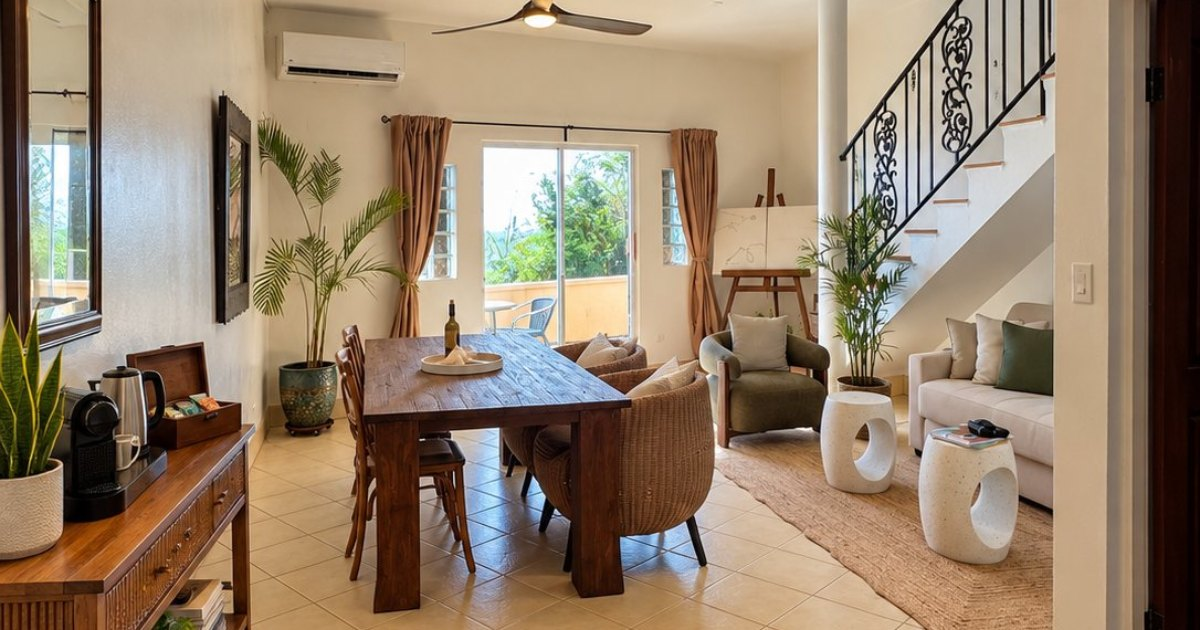
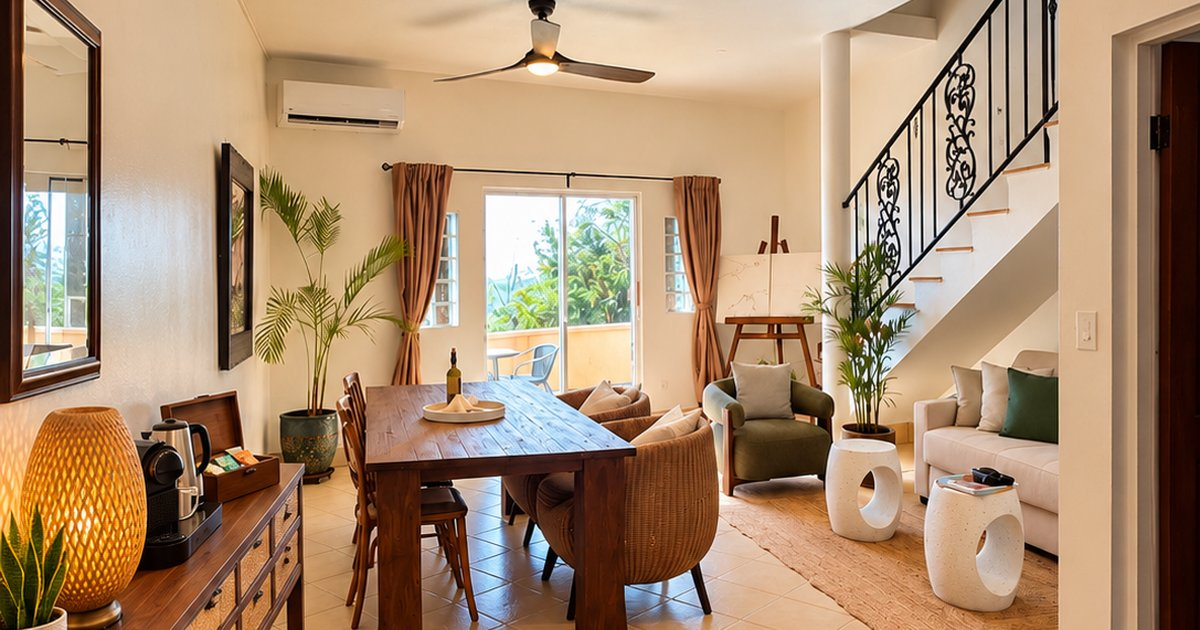
New living and dining room photo
Replace the living/dining photo in the home slideshow and gallery, and
rebuild the link-preview image from it. New filename so browsers load
the new photo instead of a cached copy.

Claude-Session: https://claude.ai/code/session_01EmQXSYo3i8cjTFuW2eu11K

diff --git a/index.html b/index.html
@@ -505,7 +505,7 @@
        </video>
 -->
 <section class="masthead">
-  <img class="mm" src="assets/photos/Living%20Dining%20Room.jpeg" alt="Living and dining room opening to the sea" style="object-position:50% 46%;transform-origin:50% 45%;--i:0" />
+  <img class="mm" src="assets/photos/Living%20and%20Dining%20Room.jpeg" alt="Living and dining room opening to the sea" style="object-position:50% 46%;transform-origin:50% 45%;--i:0" />
   <img class="mm" src="assets/photos/Master%20Bedroom.jpeg" alt="Master bedroom with balcony and ocean view" style="object-position:center 50%;--i:1" />
   <img class="mm" src="assets/photos/Sea%20View%20Room.jpeg" alt="Sliding doors onto a sea-view terrace" style="object-position:30% 45%;--i:2" />
   <img class="mm" src="assets/photos/Lower%20Balcony.jpeg" alt="Lower balcony looking down the coast" style="object-position:center 55%;--i:3" />
@@ -585,7 +585,7 @@
     <div class="story">
       <div class="stage" id="stage" data-cur="view" role="button" tabindex="0" aria-label="Open photo viewer">
         <figure data-i="0" class="on"><img src="assets/photos/Entry.jpeg" alt="Entry walkway under the pergola" style="object-position:center 70%" /></figure>
-        <figure data-i="1"><img src="assets/photos/Living%20Dining%20Room.jpeg" alt="Living and dining room with doors to the balcony" style="object-position:50% 50%" /></figure>
+        <figure data-i="1"><img src="assets/photos/Living%20and%20Dining%20Room.jpeg" alt="Living and dining room with doors to the balcony" style="object-position:50% 50%" /></figure>
         <figure data-i="2"><img src="assets/photos/Sitting%20Area.jpeg" alt="Sitting area beneath the staircase" style="object-position:center 60%" loading="lazy" /></figure>
         <figure data-i="3"><img src="assets/photos/Kitchen.jpeg" alt="Kitchen" style="object-position:center 50%" loading="lazy" /></figure>
         <figure data-i="4"><img src="assets/photos/Master%20Bedroom.jpeg" alt="Master bedroom opening onto the balcony" style="object-position:center 50%" loading="lazy" /></figure>
